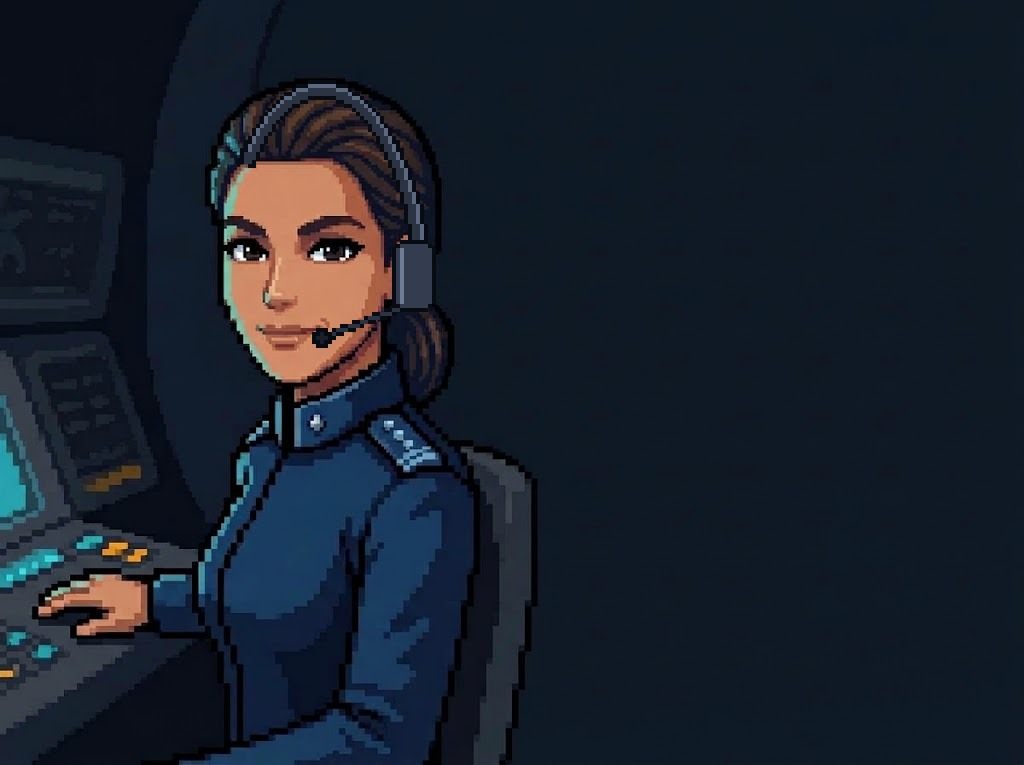
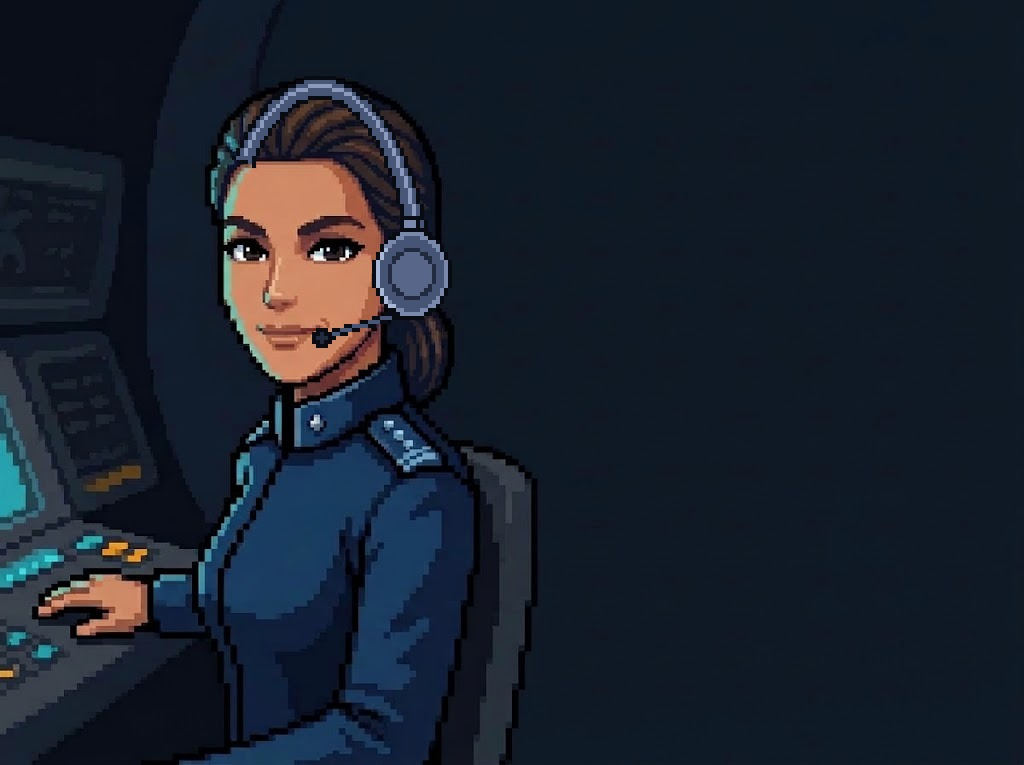
Nicole's headset: round padded cups like Alex's and the bridge
Claude-Session: https://claude.ai/code/session_01QsU1qWh9Lm4CoQ2smq7FHb

Changed region(s): [[0.3125, 0.1804, 0.4375, 0.451], [0.2188, 0.0902, 0.375, 0.2105]]

diff --git a/tools/nicole_headset.py b/tools/nicole_headset.py
@@ -8,11 +8,12 @@ from PIL import Image, ImageDraw
 ROOT = os.path.dirname(os.path.dirname(os.path.abspath(__file__)))
 sys.path.insert(0, os.path.join(ROOT, 'tools')); from crew_art import snap
 SRC, OUT = os.path.join(ROOT, 'art_src', 'crew'), os.path.join(ROOT, 'tablet', 'retro', 'assets', 'crew')
-INK, BAND, BAND_HI, CUP, CUP_HI, PAD = (8, 11, 17, 255), (44, 52, 68, 255), (92, 104, 128, 255), (52, 61, 80, 255), (110, 124, 150, 255), (26, 30, 40, 255)
+# colours taken from Alex's headphones (his portrait) and the bridge frame: slate blue, a light rim, a dark inner ring
+INK, BAND, BAND_HI, RIM, CUP, RING, FACE, HI = (8, 11, 17, 255), (72, 86, 120, 255), (140, 154, 190, 255), (122, 136, 172, 255), (70, 84, 118, 255), (34, 42, 64, 255), (88, 102, 138, 255), (170, 184, 216, 255)
 
 def headset(size, cell, band, cups, mic):
-    """Draw on a small canvas (one square per art pixel), then blow it up in hard pixels. band: ellipse box and angle range of the arc;
-    cups: [(cx, cy, w, h)]; mic: (from, to). Coordinates are in the picture's pixels."""
+    """Round padded headphones like Alex's (owner, 2026-11-27), drawn one square per art pixel, then blown up in hard pixels.
+    band: (ellipse box, start and end angle, thickness in art pixels); cups: [(cx, cy, w, h)] in the picture's pixels; mic: (from, to) or None."""
     W, H = size; w, h = W // cell, H // cell
     im = Image.new('RGBA', (w, h), (0, 0, 0, 0)); d = ImageDraw.Draw(im)
     s = lambda v: [round(x / cell) for x in v]
@@ -20,16 +21,21 @@ def headset(size, cell, band, cups, mic):
     box = s((bx0, by0, bx1, by1))
     d.arc(box, a0, a1, fill=INK, width=th + 2)
     d.arc([box[0] + 1, box[1] + 1, box[2] - 1, box[3] - 1], a0 + 1, a1 - 1, fill=BAND, width=th)
-    d.arc([box[0] + 1, box[1] + 1, box[2] - 1, box[3] - 1], a0 + 4, a1 - 4, fill=BAND_HI, width=1)
+    d.arc([box[0] + 2, box[1] + 2, box[2] - 2, box[3] - 2], a0 + 3, a1 - 3, fill=BAND_HI, width=1)
     if mic:
         (x0, y0), (x1, y1) = mic; p0, p1 = s((x0, y0)), s((x1, y1))
         d.line([*p0, *p1], fill=INK, width=3); d.line([*p0, *p1], fill=BAND, width=1)
-        d.ellipse([p1[0] - 2, p1[1] - 2, p1[0] + 2, p1[1] + 2], fill=INK); d.ellipse([p1[0] - 1, p1[1] - 1, p1[0] + 1, p1[1] + 1], fill=PAD)
+        d.ellipse([p1[0] - 2, p1[1] - 2, p1[0] + 2, p1[1] + 2], fill=INK); d.ellipse([p1[0] - 1, p1[1] - 1, p1[0] + 1, p1[1] + 1], fill=RING)
     for (cx, cy, cw, ch) in cups:
         x0, y0, x1, y1 = s((cx - cw / 2, cy - ch / 2, cx + cw / 2, cy + ch / 2))
-        d.rounded_rectangle([x0, y0, x1, y1], radius=max(1, (x1 - x0) // 3), fill=INK)
-        d.rounded_rectangle([x0 + 1, y0 + 1, x1 - 1, y1 - 1], radius=max(1, (x1 - x0) // 3 - 1), fill=CUP)
-        d.line([x0 + 2, y0 + 2, x0 + 2, y1 - 2], fill=CUP_HI)
+        d.rectangle([(x0 + x1) // 2 - 2, y0 - 3, (x0 + x1) // 2 + 2, y0 + 2], fill=INK); d.rectangle([(x0 + x1) // 2 - 1, y0 - 2, (x0 + x1) // 2 + 1, y0 + 1], fill=RIM)   # the slider into the band
+        d.ellipse([x0, y0, x1, y1], fill=INK)                              # outline
+        d.ellipse([x0 + 1, y0 + 1, x1 - 1, y1 - 1], fill=RIM)              # the padded rim
+        d.ellipse([x0 + 2, y0 + 2, x1 - 2, y1 - 2], fill=CUP)
+        ix = max(2, (x1 - x0) // 4); iy = max(2, (y1 - y0) // 4)
+        d.ellipse([x0 + ix, y0 + iy, x1 - ix, y1 - iy], fill=RING)         # the dark inner ring
+        d.ellipse([x0 + ix + 1, y0 + iy + 1, x1 - ix - 1, y1 - iy - 1], fill=FACE)
+        d.arc([x0 + 1, y0 + 1, x1 - 1, y1 - 1], 120, 220, fill=HI, width=1)   # a highlight on the rim
     return im.resize((w * cell, h * cell), Image.NEAREST)
 
 def apply(src, dst, cell, band, cups, mic):
@@ -39,10 +45,10 @@ def apply(src, dst, cell, band, cups, mic):
 
 # the face (1024 x 1024, art pixels about 16 px): band over the crown, cups on both ears, the mic from her right cup toward her mouth
 face = apply('communications_face_v1.jpg', 'communications_original.jpg', 8,
-             ((228, 70, 796, 980), 196, 344, 3), [(262, 505, 84, 150), (762, 505, 84, 150)], ((300, 590), (430, 690)))
+             ((222, 64, 802, 980), 194, 346, 4), [(262, 510, 110, 200), (762, 510, 110, 200)], ((292, 600), (430, 690)))
 snap(face.resize((64, 64), Image.LANCZOS)).save(os.path.join(OUT, 'communications.png'))
 # the dialogue picture (1024 x 765, art pixels about 4 px): three-quarter view, the cup on her near ear (viewer right), the band over her hair
 scene = apply('communications_scene_v1.jpg', 'communications_scene_original.jpg', 4,
-              ((206, 78, 430, 560), 222, 352, 3), [(410, 275, 40, 66)], ((404, 306), (318, 336)))   # the far ear is hidden behind her head: no far cup
+              ((204, 76, 432, 560), 222, 352, 4), [(410, 272, 76, 90)], ((396, 312), (318, 338)))   # the far ear is hidden behind her head: no far cup
 snap(scene.resize((320, 240), Image.LANCZOS)).save(os.path.join(OUT, 'communications_scene.png'))
 print('Nicole has her headset')
